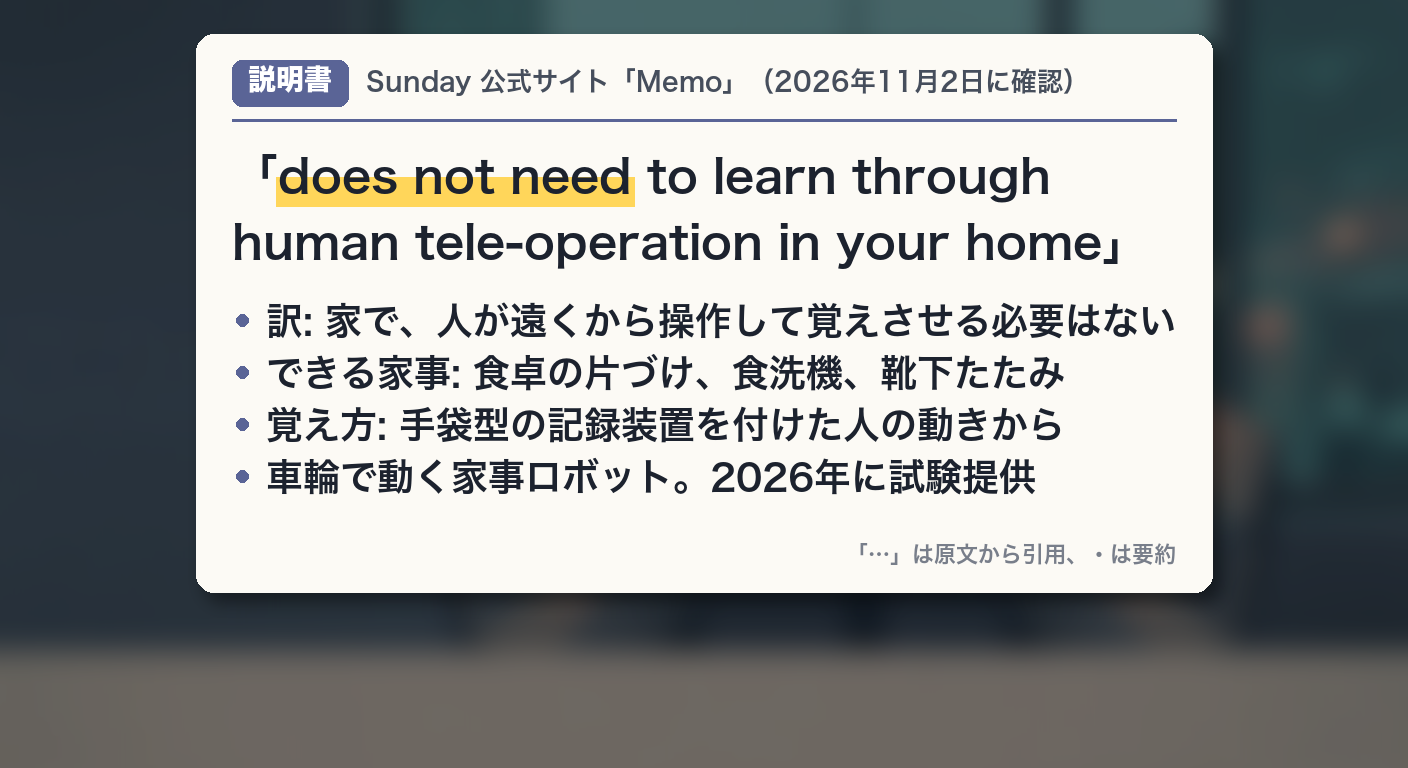
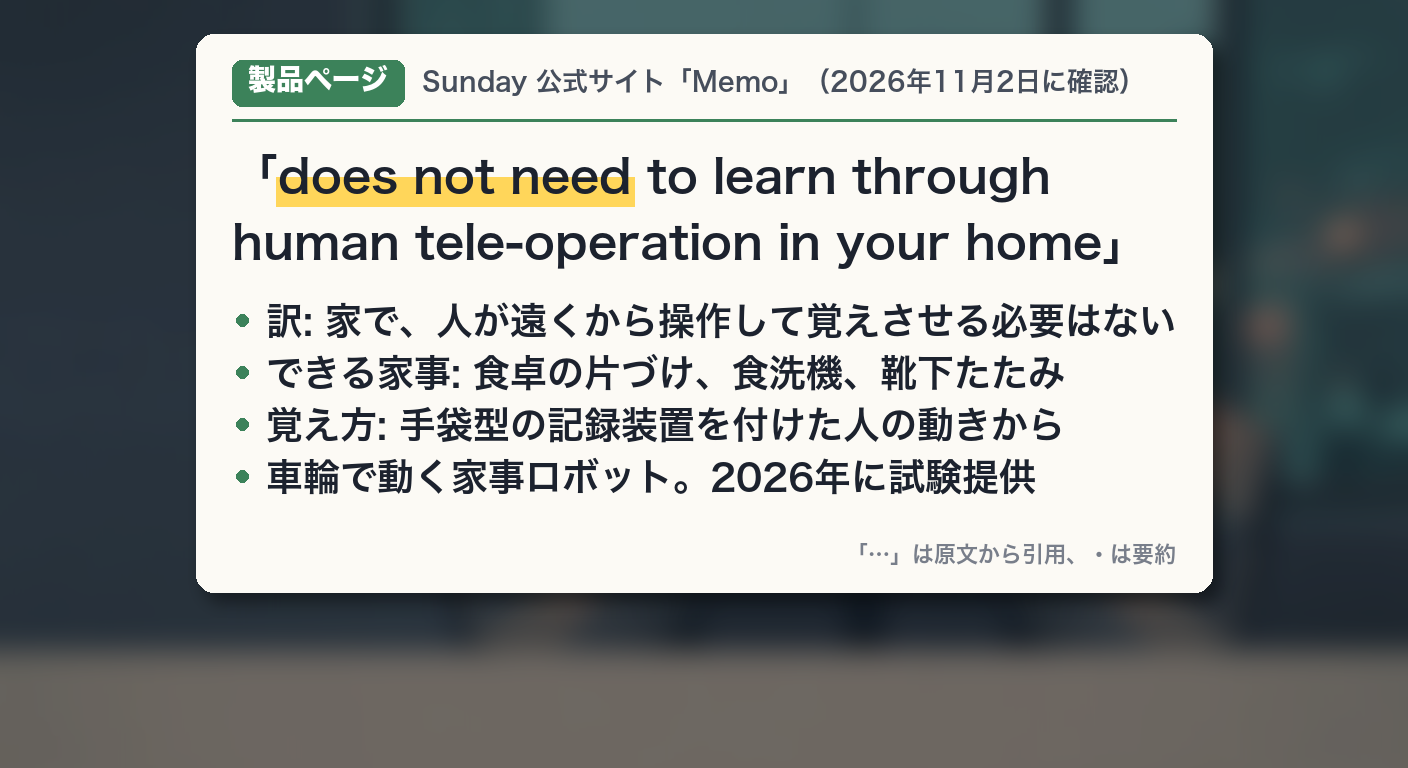
kl051: STEP11 残りの判断（初見レビュー4周目の直し2行・音声とテロップ、資料カードの種類に書き起こし・製品ページを追加）

diff --git a/kl_dialogue.py b/kl_dialogue.py
@@ -115,6 +115,8 @@ CARD_KINDS = {  # 資料カードの種類 → 見出しの色
     "docs":   ("説明書", (90, 100, 150)),
     "paper":  ("論文", (110, 80, 150)),
     "report": ("報告書", (120, 120, 120)),
+    "transcript": ("書き起こし", (176, 96, 64)),   # 発言・説明会の書き起こし（2026-11-03、kl051）
+    "web":    ("製品ページ", (60, 130, 90)),       # 会社の製品紹介ページ（2026-11-03、kl051）
 }
 CARD_DIR = BASE_DIR / "assets" / "cards"
 

diff --git a/script_prep/kl051.md b/script_prep/kl051.md
@@ -334,3 +334,12 @@
 - できれば: S11 行4・9・10 を「今年、2026年のうち」「来年から」に。S12 行1「サンデーという名前の、別のアメリカのロボット会社」。S13 行5 に「親の見守りは、今日の資料では時期が出てこなかったから、札は片づけで付ける」。S13 行12 の「デモ」を「あらかじめ決めた動きの再生じゃない、ロボットが自分で動く様子の動画」に（R2「not preprogrammed」「believe what you see」の範囲）。S05 行9 の予想を短く（「テスラに限らず、3年ほどでアメリカの家に入り始める」）、S13 行1 も同じ文に
 - 見送り: S12 のサンデーと判定の関係の一言（尺のため。S12 の hope と S13 行5 の問いで足りると判断）、締めの「研究」（固定文）
 - verdict_from_line は 9（持ち帰りの行）。尺は4,513字前後で目安13.7〜15.6分
+
+### 2026-11-03 管理担当の最後の判断（STEP11、なるさんの委任）
+- 初見レビュー4周目（scratchpad/kl051_home_review_r4.md）: 致命的0、直す2、できれば5。直す2件だけ反映
+  - S12 行4: 「どちらの会社も、そこを自分のページにはっきり書いてる。家事ロボットの宣伝の動画を見かけたら、まずそこを確かめればいい。」（旧「動画を見るときは、ここを確かめればいい」は、どの動画か分からなかった）
+  - S13 行12: 「テスラについては、マスクさんが説明会で、もう一つ言っていた。決められた動きをなぞるんじゃなく、ロボットが自分で動く様子の動画を、1か月か2か月で見せる、と。〜」（説明会の not preprogrammed の範囲。一文を分けた）
+  - 2行の音声とS12・S13のテロップを作り直し、review-pass を4周で記録
+- 資料カードの種類: S08・S09 を「書き起こし」（transcript）、S12 を「製品ページ」（web）に（kl_dialogue.CARD_KINDS に追加）。カードを作り直し、Desktop の images にコピー
+- サムネイルのサブコピー「家事も 親の見守りも？」は入れない。親の見守りは資料に時期が無く札の対象から外したので、サムネイルで約束しない
+- 読み照合の疑い2行は誤検知として採用（S12_L01「ロボット会社」の連濁＝がいしゃ、S13_L03「示した」は音声がシメシタで正しく、期待する読みの側が誤り）

diff --git a/team/notebooks/kl-writer.md b/team/notebooks/kl-writer.md
@@ -14,4 +14,5 @@
 
 ## 続けている教訓
 
-（まだありません）
+- 問いは、発表資料の中身からではなく、その発表が示唆する幸せな未来（家・暮らし・商売がどう変わるか）から立てる。資料はその問いの答え合わせに使う（kl051、なるさんの指摘「現場に来るか？は工場関係者しか関心なさそう。家庭にいつ来るかが知りたい」で作り直し）
+- 締め（判定の後〜締め）で初めて出る考え方は、耳で取りこぼされる。next_step や「見ておく目印」で使う考え方は、論点の中で一度出しておく（kl051 初見レビュー4周目）

diff --git a/team/notebooks/kl-first-viewer.md b/team/notebooks/kl-first-viewer.md
@@ -14,4 +14,4 @@
 
 ## 続けている教訓
 
-（まだありません）
+- 見落としやすい詰まりの種類: 締め間際に初めて出る考え方／指示語で前の話を受けて、急に新しい話題に移る行（2026-11 の回で指摘できた種類。続けて見る）
